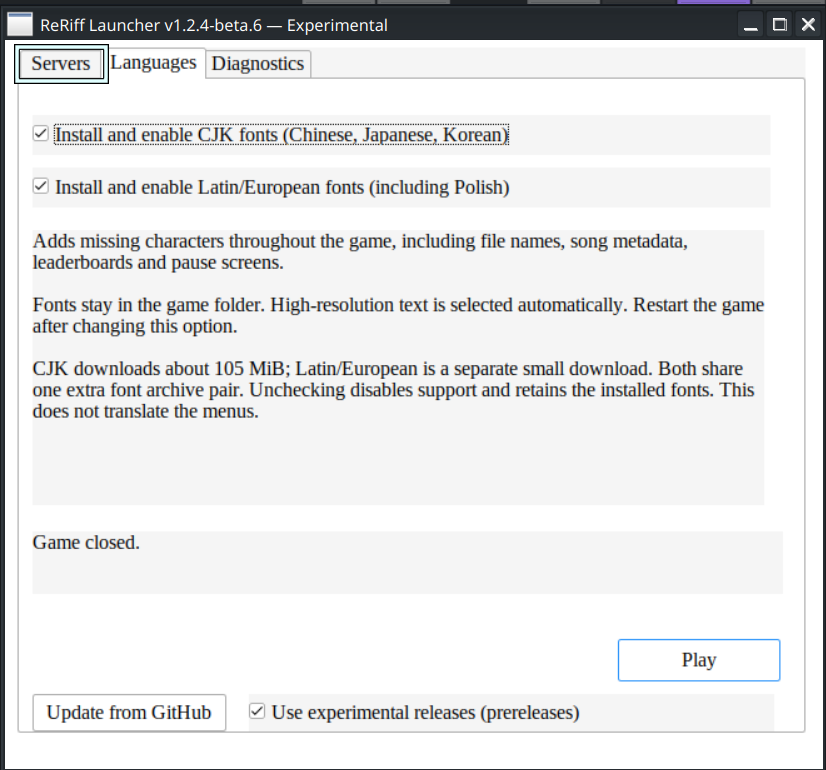
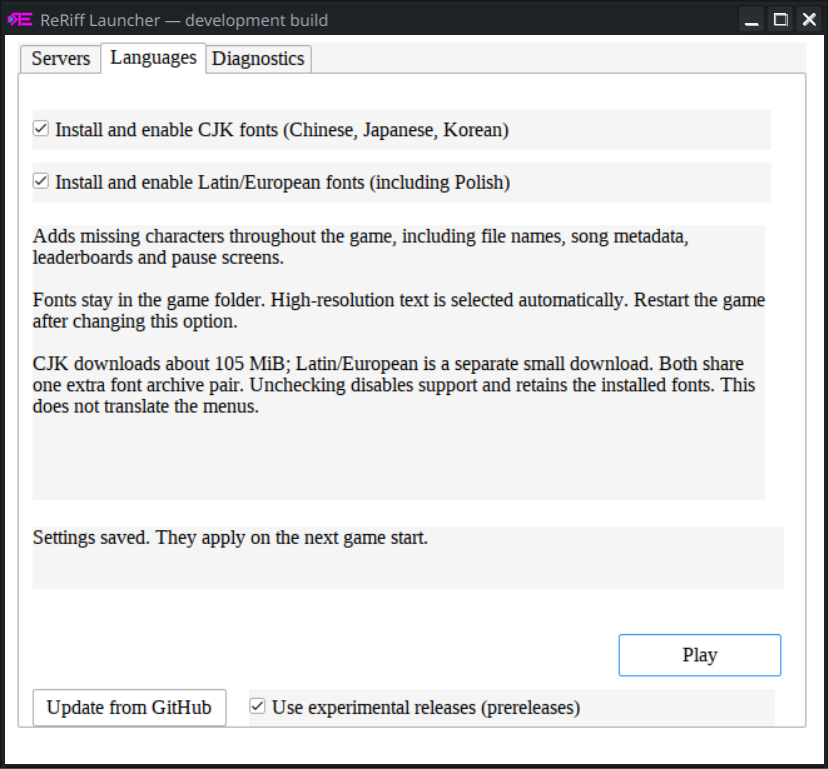
Update repository landing page with beta features and screenshots

diff --git a/README.md b/README.md
@@ -4,6 +4,7 @@ Play Riff Racer on Windows or Linux/Proton with singleplayer, shared
 leaderboards and ghosts.
 
 [Download stable](https://github.com/Aftonstjarna/ReRiff/releases/latest)
+· [Beta 1.4.0-beta.6](https://github.com/Aftonstjarna/ReRiff/releases/tag/v1.4.0-beta.6)
 · [Install and update](#install-or-update)
 · [Steam launch options](#launch-through-steam)
 · [Server settings](#server-settings)
@@ -28,6 +29,27 @@ leaderboards and ghosts.
 ![Launcher server settings, singleplayer, local-server installation and updates](docs/images/reriff-launcher.png)
 
 Linux play requires Proton and the game's Windows .NET Framework setup.
+
+## Current beta
+
+Stable is the default download and update channel. The opt-in
+[1.4.0-beta.6 release](https://github.com/Aftonstjarna/ReRiff/releases/tag/v1.4.0-beta.6)
+adds whole-library music search, editable server addresses, experimental prestige
+progression and grouped diagnostics. See its release notes for validation and
+remaining limitations.
+
+In the music picker, press **Xbox Y**, **Ctrl+F**, or click the search field.
+Search includes unimported music in the Music folder, saved favourites, current
+folder and cached-track locations. It matches filenames, paths and available
+song metadata, including kana and romaji. **Enter/A** finishes editing;
+**Esc/B** clears search before Back can leave the picker. Results arrive during
+scanning; up to 200 matches are displayed, with a 100,000-audio-file scan limit.
+
+![Music picker filtering library files for the search term caress](docs/images/reriff-music-search.png)
+
+Steam virtual-keyboard input remains unresolved in the tested Proton setup;
+automatic summoning is disabled. Use a physical keyboard with Steam's keyboard
+closed. M4A files may appear in search, but M4A playback is not supported.
 
 ## Install or update
 
@@ -89,8 +111,9 @@ it is downloaded only when you choose **Install local server**. The game still
 requires its Windows .NET Framework setup inside Proton.
 
 If Windows selects an external server but game features stay offline, include
-`logs/ReRiff-network.log` from the game folder when reporting the failure.
-The startup report collector includes this log automatically.
+the connection logs listed under [Admin panel and logs](#admin-panel-and-logs)
+when reporting the failure.
+The startup report collector includes available connection logs automatically.
 
 Failed updates show a reason in the launcher. Open **Diagnostics → View update
 details** for scrollable temporary error details and saved update-log entries.
@@ -118,7 +141,7 @@ one additional native VFS pair (`.dat` and `.zip`) and retains the original game
 mods. Updates refuse changed owned files. The tested Japanese glyph forms are
 used across CJK text; regional typography selection is not yet available.
 
-![Japanese song title alongside Latin artist text on a shared leaderboard](docs/images/reriff-cjk-leaderboard.png)
+![Driver profile showing a prestige star beside level 33 and a Japanese song title](docs/images/reriff-profile.png)
 
 ### Automatic client updates
 
@@ -131,18 +154,16 @@ The title bar shows the running version. Settings and saved data are retained.
 
 Stable is the default channel. Check **Use experimental releases (prereleases)**
 to test betas, or uncheck it to return to stable. New betas use `X.X.X-beta.N`,
-starting with `1.2.4-beta.1`; older `X.X.X-N` names remain supported.
+with older `X.X.X-N` names retained for updater compatibility.
 
-**Stable 1.2.3 launchers require a manual update to recognize beta names.**
 Experimental updates select the most recently published GitHub prerelease;
 stable updates use GitHub Latest. The updater verifies the selected release's
 package and skips an already installed version unless you switch channels or
 request a test reinstall.
 
-If your launcher cannot apply an update, install the current release manually.
-The 1.2.3 launcher has a 64 MiB download limit, below the size of the current
-installers. Download and run the 1.3.0 installer once to upgrade it; your existing
-settings and saved data are preserved.
+If an older launcher cannot recognize beta names or download current installers,
+install the current release manually once. Your settings and saved data are
+preserved.
 Client updates do not update the Docker server.
 
 ### In-game Servers menu and launcher skipping
@@ -152,7 +173,13 @@ Client updates do not update the Docker server.
 Open **Settings → Servers** to change **Skip launcher**, **Primary server only**
 and **Singleplayer**. Save your changes with **Save settings** or **Save and
 return**. **Return without saving** discards edits. The launcher edits the same
-preferences in `server.ini`.
+preferences in `server.ini` (split between `server.ini` and `client.ini` in the
+1.4.0 beta).
+
+**In the 1.4.0 beta**, select Primary or Secondary server to edit its address
+in-game, then confirm or cancel the text entry.
+
+![In-game Secondary server address editor with confirm and cancel controls](docs/images/reriff-server-editor.png)
 
 **Skip launcher** takes effect on the next start. Fresh installs show the launcher.
 
@@ -195,15 +222,8 @@ quotes. Steam's forwarded command must point to `Game.exe` beside the launcher.
 Put launcher flags such as `--skip-launcher` before `%command%`; game arguments
 forwarded after `Game.exe` are retained. Use the current launcher for Steam command forwarding.
 
-On Linux, use the shell bridge to launch the Windows EXE through Steam's Proton.
-**Stable 1.2.3** installs it at `localserver/steam-launcher.sh`:
-
-```text
-"/path/to/Riff Racer/localserver/steam-launcher.sh" -- %command%
-```
-
-**Upcoming installers** also place the bridge beside `ReRiff-Launcher.exe` as
-**ReRiff-Launcher.sh**. If that file is present, use:
+On Linux, use **ReRiff-Launcher.sh** beside `ReRiff-Launcher.exe` to launch
+through Steam's Proton:
 
 ```text
 "/path/to/Riff Racer/ReRiff-Launcher.sh" -- %command%
@@ -221,13 +241,11 @@ To test an unattended update on Linux, use:
 "/path/to/Riff Racer/ReRiff-Launcher.sh" --test-auto-update -- %command%
 ```
 
-For stable 1.2.3, substitute `localserver/steam-launcher.sh` in these examples.
-
 Remove `--test-auto-update` after testing. It implies skipping the launcher for
 that invocation. Current bridges also recognize this flag after `%command%`.
 
-Both bridge locations retain the same argument forwarding; the old path remains
-supported for existing Steam launch options. Do not use the Windows `.exe`
+The older `localserver/steam-launcher.sh` path remains supported for existing
+Steam launch options, with the same argument forwarding. Do not use the Windows `.exe`
 directly before `%command%` on Linux.
 
 The Windows launcher runs in Steam's Proton prefix. Singleplayer storage runs
@@ -239,12 +257,12 @@ The launcher waits for the game to exit so Steam keeps the session active.
 Open **News** for the installed client's patch notes and server announcements.
 Choose **Visit URL** for that release's full notes on GitHub. News
 shows up to three concise summary points. Client notes ship with the installer;
-delivery diagnostics are recorded in `logs/ReRiff-news.log` when logging is enabled.
+delivery diagnostics use the connection logs described below when logging is enabled.
 
 ![In-game News with a short release summary and a link to the full notes](docs/images/reriff-news.png)
 
-The supplied Languages and in-game screenshots show the beta.6 preview of
-features included in the stable releases.
+The launcher, profile, address-editor and search screenshots show a development
+build of the 1.4.0 beta features. Other screenshots may show earlier releases.
 
 ## Server settings
 
@@ -257,6 +275,12 @@ The launcher edits `server.ini` beside `Game.exe`:
 - **Primary server only:** skips the secondary server; singleplayer remains available.
 - **Singleplayer:** selects local play while retaining both saved server addresses.
 - **Use servers:** enables primary → secondary → singleplayer selection.
+
+In the 1.4.0 beta, shared graphics, language, launcher and logging preferences
+live in `client.ini`.
+Singleplayer progression and balance live in `singleplayer.ini`. The optional
+LAN service uses `localserver/server.ini`. Existing combined configurations
+migrate automatically; see [configuration files](https://github.com/Aftonstjarna/ReRiff/blob/codex/experimental-client/docs/CONFIGURATION.md).
 
 ### Quick deploy a local or LAN server
 
@@ -407,6 +431,8 @@ directory are copied into the game's `.bak` folder; the previous copies are kept
 
 ## Troubleshooting
 
+![Launcher Diagnostics tab with nine grouped logging categories and View update details](docs/images/reriff-diagnostics.png)
+
 Enable **Diagnostic logging** in setup or the launcher's **Diagnostics** tab
 before reproducing an issue. Logging defaults on for beta/development builds
 and off for stable builds; an explicit choice is retained across updates.
@@ -414,12 +440,10 @@ The game creates `logs` only when logging is enabled. Disabling it keeps
 existing logs and the folder unchanged. Restart a running local server after
 changing its logging setting. Review logs before sharing them.
 
-**High-rate FLAC produces an overlong track:** a 96 kHz / 24-bit source can
-produce a track much longer than its audio. This also reproduces with the
-original engine plus the offline patch. A separately resampled 44.1 kHz / 24-bit
-copy produced the expected analysis span in the comparison. Keep the original
-music and generate a fresh track from the resampled copy; reusing the old cached
-analysis retains the bug. See [issue #2](https://github.com/Aftonstjarna/ReRiff/issues/2).
+**Previously generated FLAC tracks have the wrong duration:** current builds
+correct the original decoder's sample-rate handling for new analysis. Old cached
+analysis can retain the timing error; generate a fresh track rather than reusing
+that cache. See [the FLAC investigation](reports/FLAC-SAMPLE-RATE.md).
 
 For a white-screen crash on Windows, install the complete package with
 `ReRiff-Setup.exe` first; copying the launcher alone leaves required helpers
@@ -442,7 +466,7 @@ If a different failure persists, send the generated startup report.
   once. Updated launchers distinguish actual host-helper completion from Wine's
   wrapper exit status, including when no local backend is running.
 - **Cannot connect over LAN:** check the saved external URL and port, container
-  port mapping/host networking, TCP firewall rule, and `logs/ReRiff-client.log`. A
+  port mapping/host networking, TCP firewall rule, and the connection logs below. A
   public-URL setting alone does not expose a port. Restart the game to reselect.
 - **Same song has separate leaderboards:** update the server and both launchers,
   ensure the exact source files are accessible, and relaunch each client. Metadata
@@ -603,16 +627,26 @@ override it explicitly. Normal stored News announcements are retained.
 For a local server, open `http://127.0.0.1:5144/admin`. For a shared server, use
 its configured address with `/admin`.
 
-- Client selection: `logs/ReRiff-client.log` under the game folder.
-- Launcher and updates: `logs/ReRiff-launcher.log`; update errors also identify a
-  working folder for extracted update files. The update log is `logs/update.log`.
-- Native menu startup: `logs/ReRiff-engine-menu.log`; network errors: `logs/ReRiff-network.log`.
+In 1.4.0-beta.6 and later, related diagnostics share files and retain component
+labels. The launcher exposes nine categories. Older per-component preferences
+are preserved until you change their group; superseded logs move to
+`logs/archive/` during installation.
+
+- Connections, server selection and News: `logs/ReRiff-connections.log`.
+- Native menus and singleplayer progression: `logs/ReRiff-game.log`.
+- Text input, Unicode and metadata: `logs/ReRiff-text.log`.
+- Launcher: `logs/ReRiff-launcher.log`; updates: `logs/update.log`.
+- Optional local server: `logs/ReRiff-localserver.log`.
 - Setup: `logs/installer.log` on Windows and `logs/installer-*.log` on Linux.
   Private Python downloads: `logs/ReRiff-python-setup.log` on Windows.
   Startup collection reports are also saved under `logs/`.
 - Legacy local backend: `localserver/server-console.log` and
   `localserver/server/data/traces/`.
 - Docker: `docker logs reriff-server` and `/data/traces/` inside the container.
+
+Stable 1.3.2 still uses separate `ReRiff-client.log`, `ReRiff-network.log`,
+`ReRiff-news.log`, `ReRiff-engine-menu.log`, `ReRiff-singleplayer.log`,
+`ReRiff-unicode.log` and `ReRiff-metadata.log` files under `logs/`.
 
 Credentials are redacted from structured traces; player and song names remain.
 
@@ -659,7 +693,12 @@ server. The Docker image already includes both libraries; singleplayer needs nei
 
 ## Build and release
 
-Client source builds use .NET SDK 8 and Zig 0.14.1:
+Client source builds use .NET SDK 8 and Zig 0.14.1.
+
+On the experimental branch, unpublished local builds display **development build** in both the launcher and
+game. The native build script detects a clean matching version tag; use
+`--development` to force the development label or `--release` when producing an
+official versioned package. Release workflows explicitly select `--release`.
 
 Managed helpers use the committed `Managed/ReRiff.snk` development key for a
 reproducible strong-name identity required by the Windows .NET Framework loader.
@@ -704,12 +743,29 @@ For installer builds, build the client helpers and both optional server packages
 python3 packaging/build_release.py --local-patching
 ```
 
+Launcher, client mod and server have independent checks and can be developed
+in separate worktrees. See [parallel component development](https://github.com/Aftonstjarna/ReRiff/blob/codex/experimental-client/docs/COMPONENT-WORKFLOWS.md)
+for source ownership, build commands and integration boundaries.
+
 Updating `VERSION` on `main` triggers a stable client release. The
 `codex/experimental-client` branch publishes betas named `X.X.X-beta.N`.
 The workflow builds and checks both installers before publishing assets and
 checksums. Each release has its own notes; the full changelog is in
 [RELEASE-NOTES.md](RELEASE-NOTES.md). Publish the stable base version after its
 build passes all checks.
+
+### Repository history
+
+Some older commits appear more than once with the same title. The history
+contains parallel versions of an older commit chain with different parent
+hashes, later joined by merges. Several pairs have identical file snapshots;
+others differ. Repeated titles do not mean features are installed or run twice.
+Published history and release tags are retained so existing release references
+continue to identify their tested commits.
+
+GitHub provides the source ZIP and tarball for each release automatically;
+there is no separately uploaded source archive. For version-specific changes,
+use the release notes rather than counting repeated commit titles.
 
 The vendored extended backend originates from
 [rumbadebu/riffapi-local-extended](https://github.com/rumbadebu/riffapi-local-extended)
